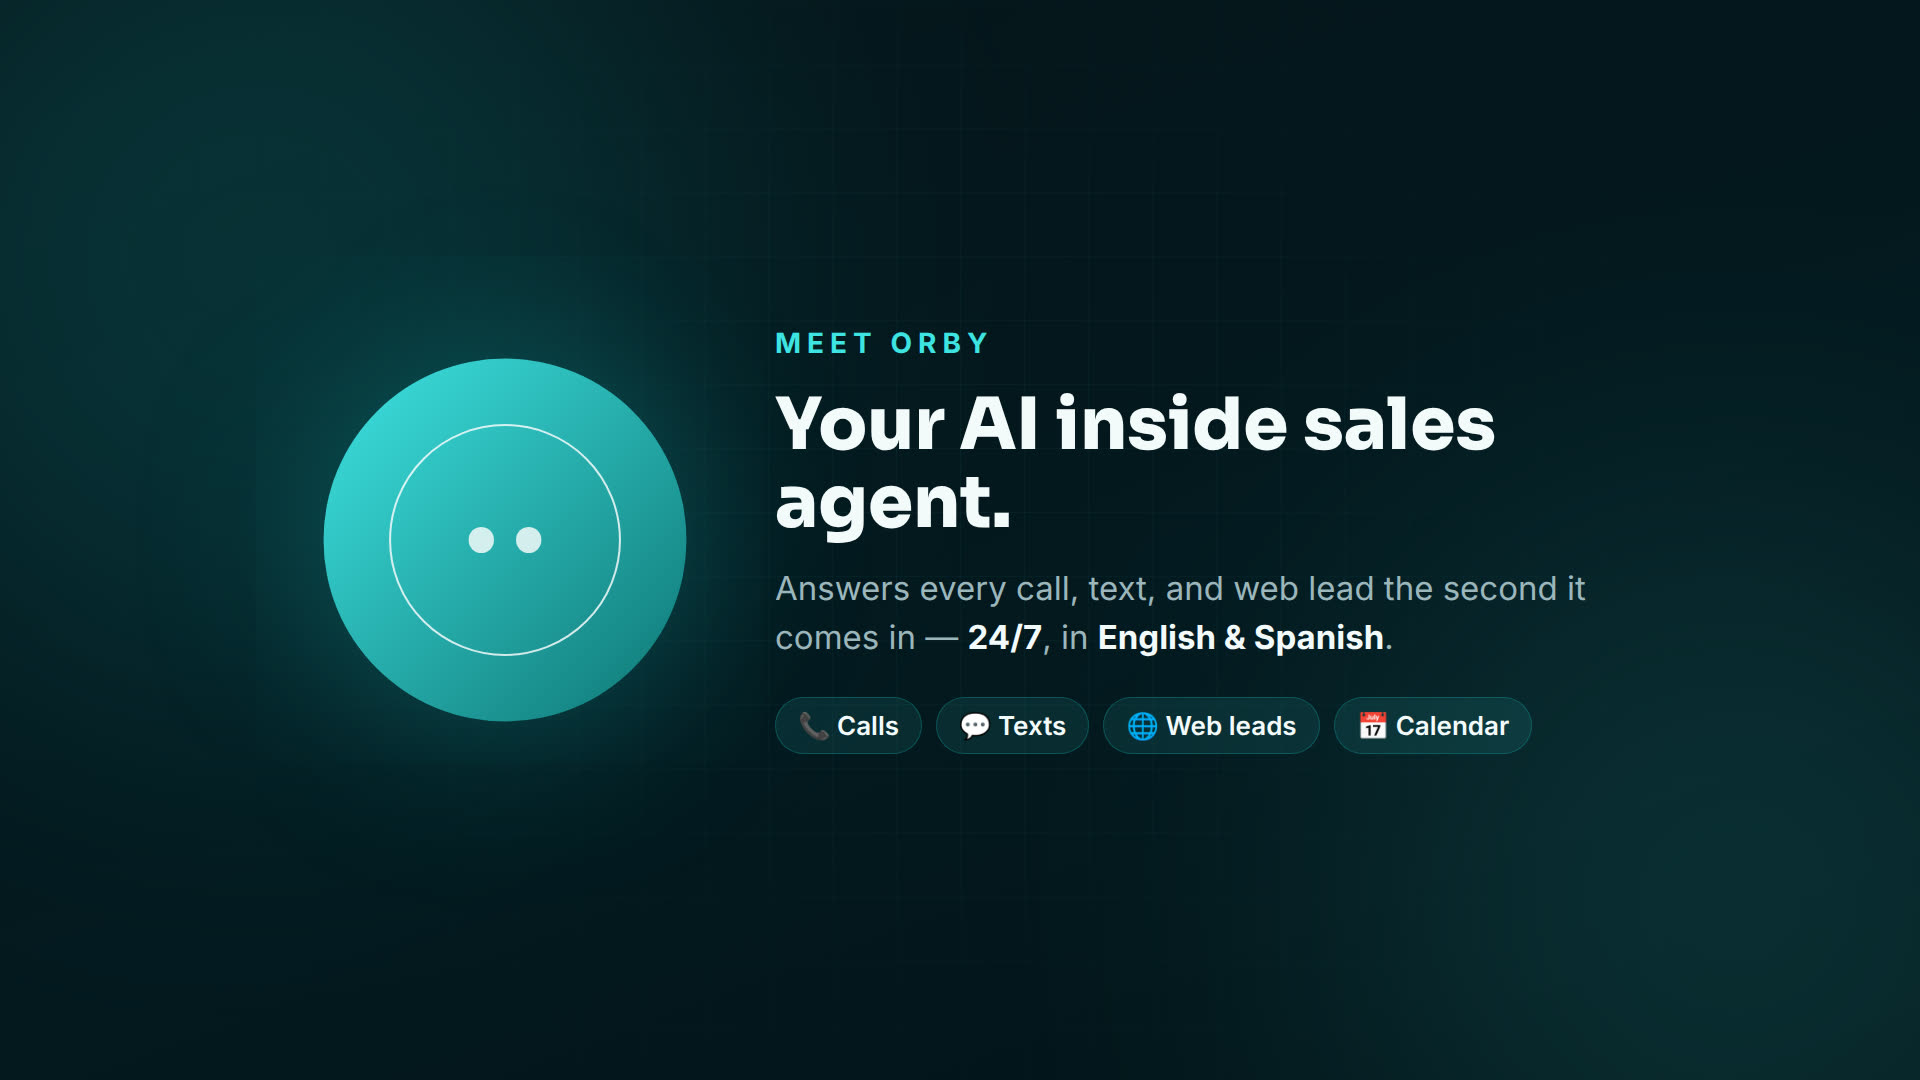
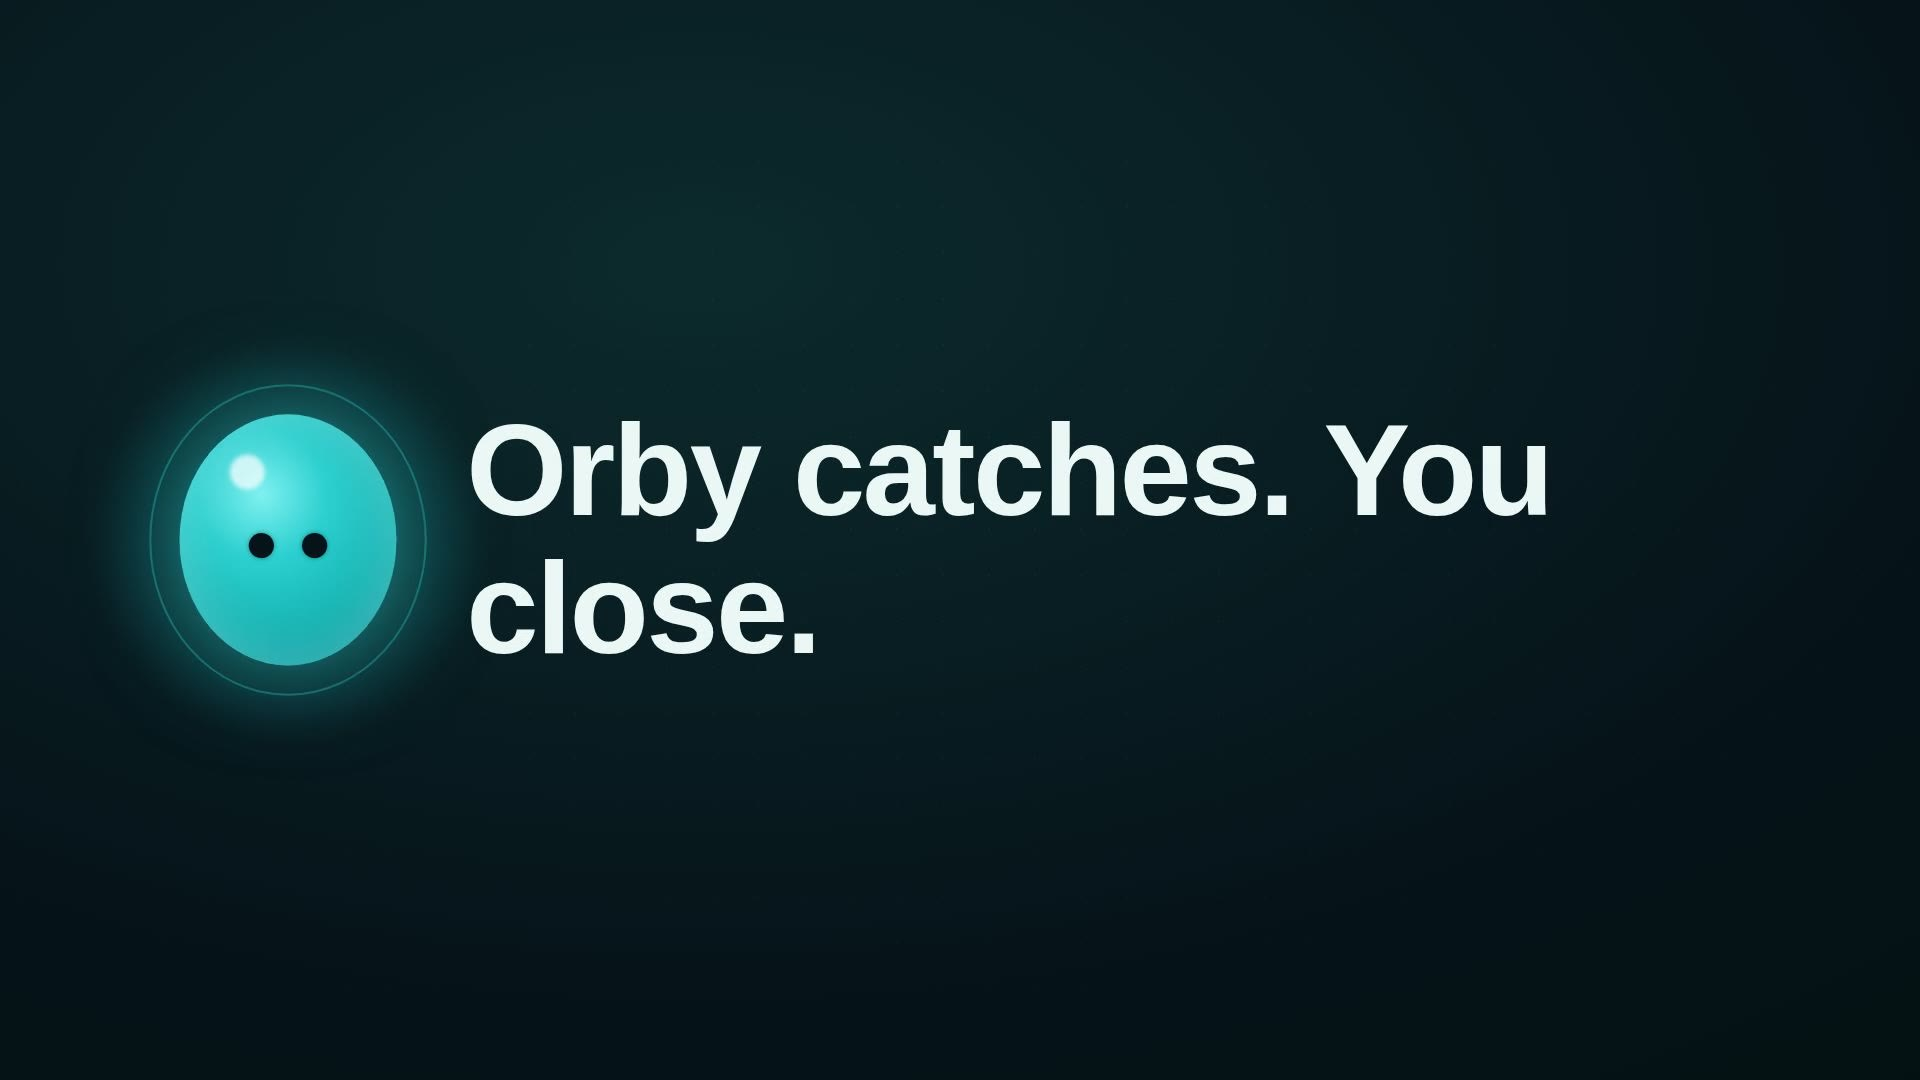
feat(site): new HomepageHero video on myorbisagents.com (EN + ES)
- Replace /assets/orby-explainer-short-en.mp4 with the new dark-premium
  HomepageHero render (sales hero, Orby voice). 5.9MB -> 2.6MB, +faststart.
- Add /assets/orby-explainer-short-es.mp4 (Spanish HomepageHero) and a
  VIDEO EXPLAINER section on es/index.html (previously had none).
- Regenerate posters from a clean tagline frame (EN + new ES poster).

Deploy: wrangler pages deploy myorbisagents.com --project-name=myorbisagents

diff --git a/myorbisagents.com/es/index.html b/myorbisagents.com/es/index.html
@@ -109,6 +109,21 @@
   </div>
 </section>
 
+<!-- VIDEO EXPLAINER -->
+<section>
+  <div class="wrap">
+    <div class="section-head center">
+      <span class="eyebrow" data-reveal>30 segundos con Orby</span>
+      <h2 data-reveal>Mira cómo Orby convierte una llamada perdida en una visita agendada.</h2>
+    </div>
+    <div class="video-wrap" data-reveal>
+      <video controls preload="none" poster="/assets/orby-explainer-poster-es.jpg" playsinline>
+        <source src="/assets/orby-explainer-short-es.mp4" type="video/mp4">
+      </video>
+    </div>
+  </div>
+</section>
+
 <!-- AUDIO PROOF -->
 <section>
   <div class="wrap">